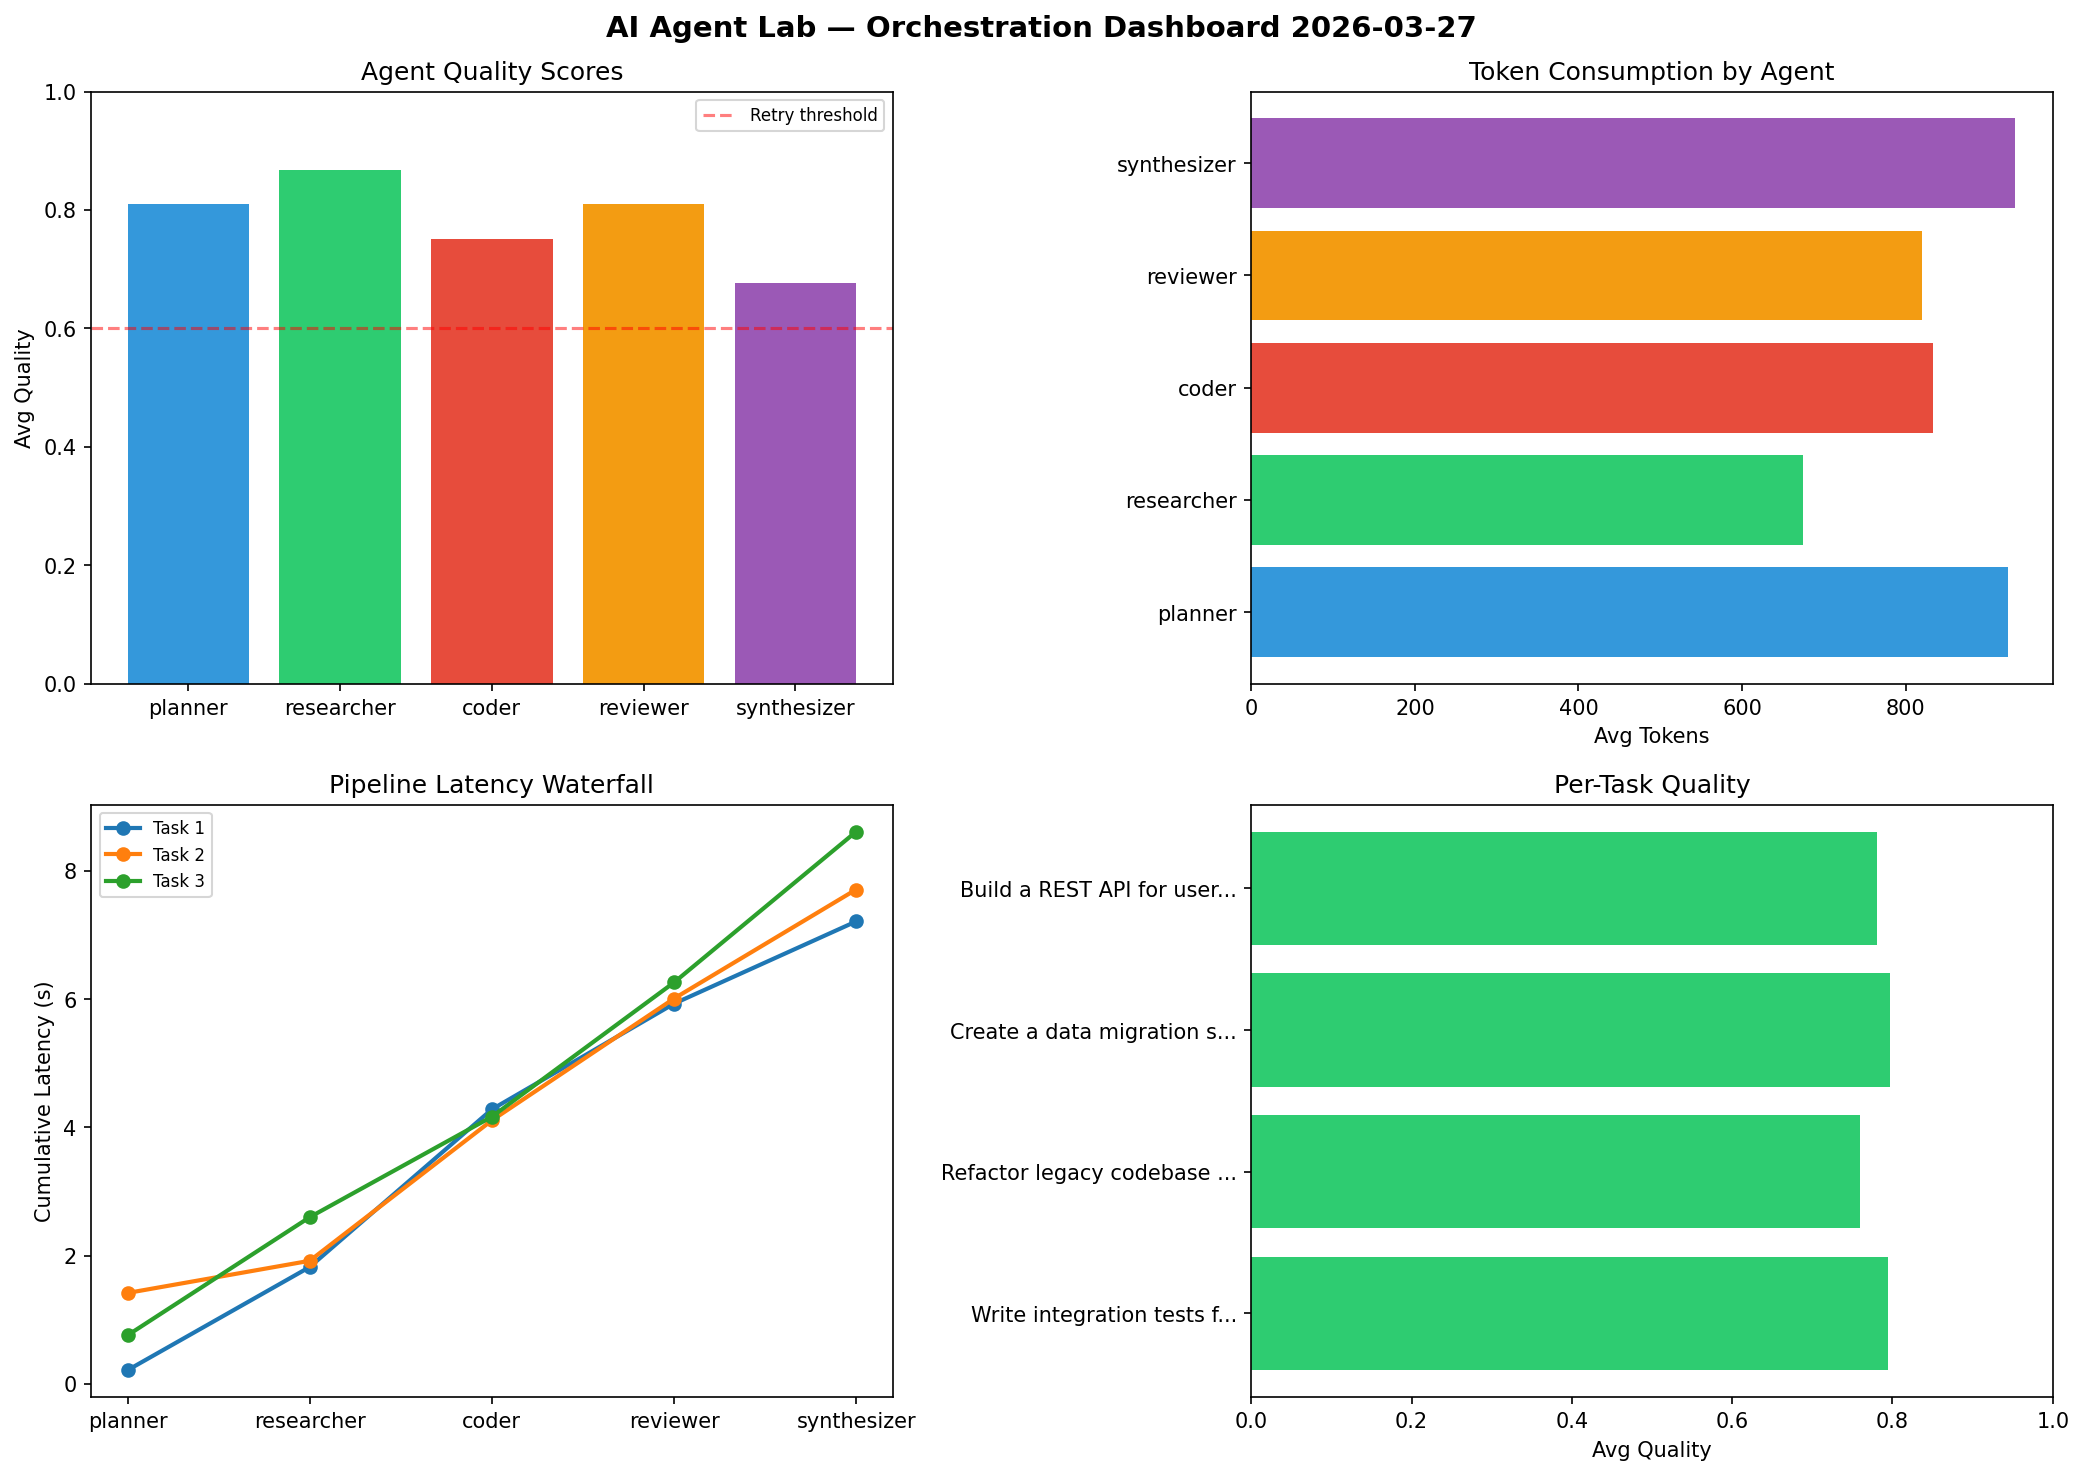
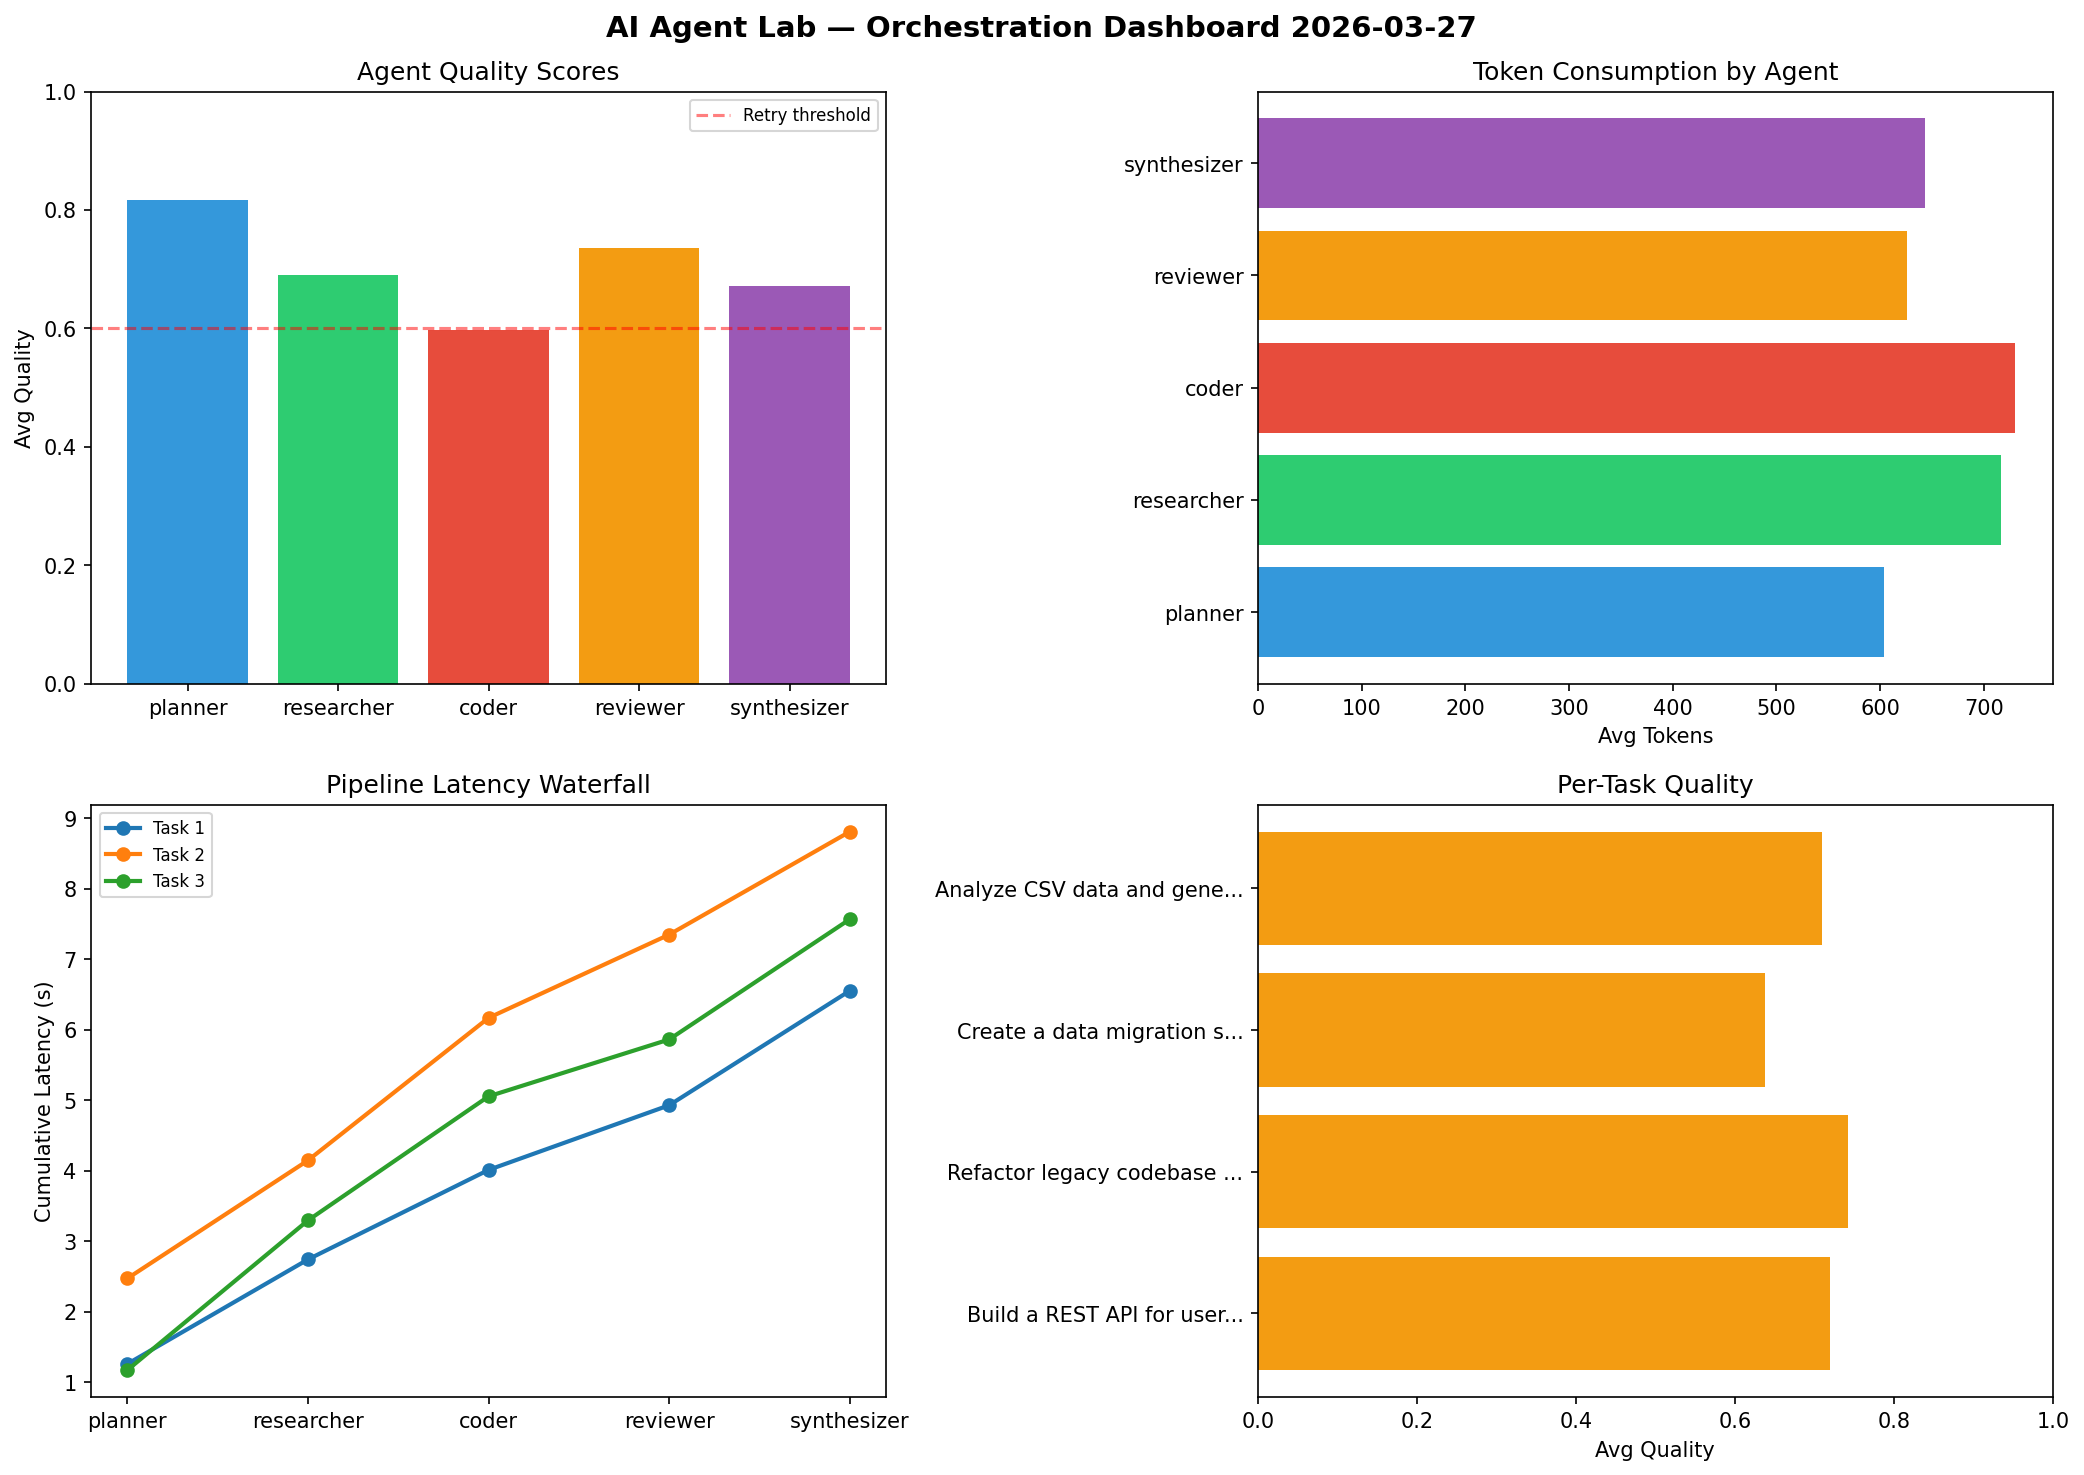
ai-agent-lab: orchestration run 2026-03-27T20:59

diff --git a/logs/2026-03-27.md b/logs/2026-03-27.md
@@ -1,6 +1,6 @@
 # AI Agent Lab — Orchestration Report 2026-03-27
 
-**Run ID:** `85c437afb0` | **Tasks:** 4 | **Avg Quality:** 0.783
+**Run ID:** `dfccb4b5c2` | **Tasks:** 4 | **Avg Quality:** 0.703
 
 ![Dashboard](2026-03-27_dashboard.png)
 
@@ -8,52 +8,52 @@
 
 | Metric | Value |
 |--------|-------|
-| avg_latency | 7.866 |
-| total_tokens | 16745 |
-| avg_quality | 0.783 |
+| avg_latency | 7.2 |
+| total_tokens | 13279 |
+| avg_quality | 0.703 |
 
 ## Delta vs Yesterday
 
 | Metric | Today | Yesterday | Change |
 |--------|-------|-----------|--------|
-| avg_latency | 7.866 | 6.122 | 📈 28.5% |
-| total_tokens | 16745 | 13003 | 📈 28.8% |
-| avg_quality | 0.783 | 0.724 | 📈 8.1% |
+| avg_latency | 7.2 | 6.122 | 📈 17.6% |
+| total_tokens | 13279 | 13003 | 📈 2.1% |
+| avg_quality | 0.703 | 0.724 | 📉 -2.9% |
 
 ## Pipeline Results
-
-### Write integration tests for payment processing module
-| Agent | Quality | Latency | Tokens | Status |
-|-------|---------|---------|--------|--------|
-| planner | 0.721 | 0.213s | 1196 | success |
-| researcher | 0.769 | 1.609s | 726 | success |
-| coder | 0.735 | 2.459s | 800 | success |
-| reviewer | 0.947 | 1.648s | 1043 | success |
-| synthesizer | 0.8 | 1.283s | 1209 | success |
-
-### Refactor legacy codebase to use dependency injection
-| Agent | Quality | Latency | Tokens | Status |
-|-------|---------|---------|--------|--------|
-| planner | 0.708 | 1.417s | 972 | success |
-| researcher | 0.893 | 0.502s | 984 | success |
-| coder | 0.726 | 2.19s | 1117 | success |
-| reviewer | 0.669 | 1.9s | 362 | success |
-| synthesizer | 0.797 | 1.701s | 677 | success |
-
-### Create a data migration script for schema v2
-| Agent | Quality | Latency | Tokens | Status |
-|-------|---------|---------|--------|--------|
-| planner | 0.953 | 0.757s | 645 | success |
-| researcher | 0.996 | 1.842s | 516 | success |
-| coder | 0.673 | 1.567s | 683 | success |
-| reviewer | 0.779 | 2.094s | 1049 | success |
-| synthesizer | 0.586 | 2.352s | 950 | needs_retry |
 
 ### Build a REST API for user authentication
 | Agent | Quality | Latency | Tokens | Status |
 |-------|---------|---------|--------|--------|
-| planner | 0.858 | 2.457s | 889 | success |
-| researcher | 0.809 | 2.249s | 471 | success |
-| coder | 0.869 | 1.069s | 733 | success |
-| reviewer | 0.846 | 0.684s | 826 | success |
-| synthesizer | 0.524 | 1.47s | 897 | needs_retry |
+| planner | 0.933 | 1.258s | 580 | success |
+| researcher | 0.619 | 1.483s | 369 | success |
+| coder | 0.659 | 1.271s | 588 | success |
+| reviewer | 0.524 | 0.918s | 644 | needs_retry |
+| synthesizer | 0.864 | 1.625s | 245 | success |
+
+### Refactor legacy codebase to use dependency injection
+| Agent | Quality | Latency | Tokens | Status |
+|-------|---------|---------|--------|--------|
+| planner | 0.775 | 2.471s | 868 | success |
+| researcher | 0.797 | 1.676s | 457 | success |
+| coder | 0.612 | 2.023s | 907 | success |
+| reviewer | 0.948 | 1.182s | 768 | success |
+| synthesizer | 0.581 | 1.461s | 529 | needs_retry |
+
+### Create a data migration script for schema v2
+| Agent | Quality | Latency | Tokens | Status |
+|-------|---------|---------|--------|--------|
+| planner | 0.58 | 1.17s | 548 | needs_retry |
+| researcher | 0.589 | 2.125s | 871 | needs_retry |
+| coder | 0.613 | 1.761s | 641 | success |
+| reviewer | 0.784 | 0.808s | 606 | success |
+| synthesizer | 0.622 | 1.706s | 1090 | success |
+
+### Analyze CSV data and generate statistical summary
+| Agent | Quality | Latency | Tokens | Status |
+|-------|---------|---------|--------|--------|
+| planner | 0.982 | 0.581s | 419 | success |
+| researcher | 0.757 | 1.011s | 1170 | success |
+| coder | 0.506 | 0.205s | 784 | needs_retry |
+| reviewer | 0.69 | 1.588s | 487 | success |
+| synthesizer | 0.617 | 2.476s | 708 | success |
